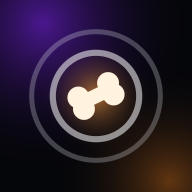
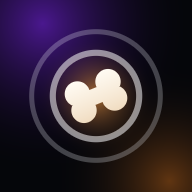
Kemiği tombullaştır
Topuzlar büyütüldü, gövde inceltilip uzatıldı, uçlardaki çentik belirginleşti;
üstten alta yumuşak bir fildişi geçişi eklendi (peluş hissi).

İlk denemede gövde hem kısalıp hem kalınlaşınca bel çizgisi kayboldu ve şekil
buluta döndü. Kemiğin okunur kalması için gereken üç oran CLAUDE.md'ye yazıldı.

Changed region(s): [[0.3125, 0.3438, 0.6875, 0.6562]]

diff --git a/tools/make-icons.js b/tools/make-icons.js
@@ -41,15 +41,16 @@ function draw(S) {
 
   // Ortadaki kemik — geometri (döndürülmemiş, merkez orijinde)
   const bone = {
-    halfSpan: S * 0.143,   // lobe merkezlerinin yatay uzaklığı + lobe yarıçapı
-    lobeR:    S * 0.057,   // lobe (topuz) yarıçapı
-    shaftH:   S * 0.037,   // gövde yarı kalınlığı
-    lobeDy:   S * 0.033,   // lobe merkezlerinin dikey ayrımı
-    tilt:     -26 * Math.PI / 180
+    halfSpan: S * 0.152,   // lobe merkezlerinin yatay uzaklığı + lobe yarıçapı
+    lobeR:    S * 0.066,   // lobe (topuz) yarıçapı
+    shaftH:   S * 0.042,   // gövde yarı kalınlığı
+    lobeDy:   S * 0.046,   // lobe merkezlerinin dikey ayrımı
+    tilt:     -22 * Math.PI / 180
   };
   bone.lobeDx = bone.halfSpan - bone.lobeR;
   const cosT = Math.cos(bone.tilt), sinT = Math.sin(bone.tilt);
-  const ivory = [255, 242, 223];
+  const ivoryTop = [255, 251, 243];   // üstte ışık alan yüz
+  const ivoryBot = [240, 219, 191];   // altta gölgeli yüz
 
   // noktadan doğru parçasına uzaklık (gövde için)
   const segDist = (px, py, ax) => {
@@ -87,7 +88,11 @@ function draw(S) {
       if (dl < sd) sd = dl;
     }
     const boneCover = clamp01(0.5 - sd);
-    if (boneCover > 0) col = mix(col, ivory, boneCover);
+    if (boneCover > 0) {
+      // yumuşak dikey ışık geçişi — peluş hissi
+      const shade = clamp01(0.5 - ly / (2 * (bone.lobeDy + bone.lobeR)));
+      col = mix(col, mix(ivoryBot, ivoryTop, Math.pow(shade, 0.85)), boneCover);
+    }
 
     const o = (y * S + x) * 4;
     buf[o] = Math.round(col[0]); buf[o+1] = Math.round(col[1]); buf[o+2] = Math.round(col[2]); buf[o+3] = 255;

diff --git a/index.html b/index.html
@@ -33,12 +33,15 @@
       <div class="wordmark">
         <svg viewBox="0 0 24 24" width="24" height="24" aria-hidden="true">
           <!-- Küçük boyda sadeleşmiş işaret: tek halka + kemik -->
+          <defs><linearGradient id="bone-g" x1="0" y1="0" x2="0" y2="1">
+            <stop offset="0" stop-color="#fffbf3"/><stop offset="1" stop-color="#f0dbbf"/>
+          </linearGradient></defs>
           <circle cx="12" cy="12" r="10.4" fill="none" stroke="currentColor" stroke-width="1.2" opacity=".3"/>
-          <circle cx="12" cy="12" r="7.4" fill="hsl(32 94% 58%)" opacity=".18"/>
-          <g transform="rotate(-26 12 12)" fill="#fff2df">
-            <rect x="8.3" y="10.4" width="7.4" height="3.2" rx="1.6"/>
-            <circle cx="8.3" cy="10.55" r="2.5"/><circle cx="8.3" cy="13.45" r="2.5"/>
-            <circle cx="15.7" cy="10.55" r="2.5"/><circle cx="15.7" cy="13.45" r="2.5"/>
+          <circle cx="12" cy="12" r="7.6" fill="hsl(32 94% 58%)" opacity=".2"/>
+          <g transform="rotate(-22 12 12)" fill="url(#bone-g)">
+            <rect x="8.28" y="10.19" width="7.44" height="3.62" rx="1.81"/>
+            <circle cx="8.28" cy="10.01" r="2.85"/><circle cx="8.28" cy="13.99" r="2.85"/>
+            <circle cx="15.72" cy="10.01" r="2.85"/><circle cx="15.72" cy="13.99" r="2.85"/>
           </g>
         </svg>
         <span>Find My <b>Asistan</b></span>

diff --git a/sw.js b/sw.js
@@ -1,5 +1,5 @@
 // Çevrimdışı çalışma. Kabuk dosyaları önbellekten, veri dosyası önce ağdan.
-const VERSION = 'asistan-panel-v9';
+const VERSION = 'asistan-panel-v10';
 const SHELL = [
   './', './index.html', './manifest.webmanifest',
   './styles/app.css',

diff --git a/CLAUDE.md b/CLAUDE.md
@@ -8,9 +8,15 @@ Acıbadem Üniversitesi Ortopedi ve Travmatoloji — 4 hastane, 6 asistan.
 iş bitirdikçe oradaki kutucukları güncelle.
 
 ## İkon ve marka
-Konum işareti: eş merkezli halkalar + ortada fildişi bir kemik (ortopedi göndermesi),
+Konum işareti: eş merkezli halkalar + ortada tombul fildişi bir kemik (ortopedi göndermesi),
 arkasında kehribar hale. `node tools/make-icons.js` 180/192/512 PNG üretir — bağımlılık yok,
-geometri dosyanın başındaki `bone` nesnesinden ayarlanır.
+geometri `bone` nesnesinden ayarlanır.
+
+Kemik oranlarını değiştirirken üç kuralı bozma, yoksa kemik okunmaz hale gelir:
+- **Orta boşluk:** `halfSpan - lobeR > lobeR` (iki uç birbirine yapışmasın)
+- **Bel:** `2*shaftH / (2*(lobeDy+lobeR))` ≈ 0.35–0.45 (gövde topuzlardan belirgin ince olsun)
+- **Topuz çentiği:** `lobeDy / lobeR` ≈ 0.65–0.75 (uçtaki iki topuz ayrışsın ama sertleşmesin)
+Fazla tombullaştırınca (kısa + kalın gövde) şekil buluta dönüyor — bir kez oldu.
 Uygulama içindeki küçük işaret `index.html`'de satır içi SVG; küçük boyda okunurluk için
 sadeleştirilmiş (tek halka + daha büyük kemik). İkonun iki hali kasıtlı olarak farklı.
 
